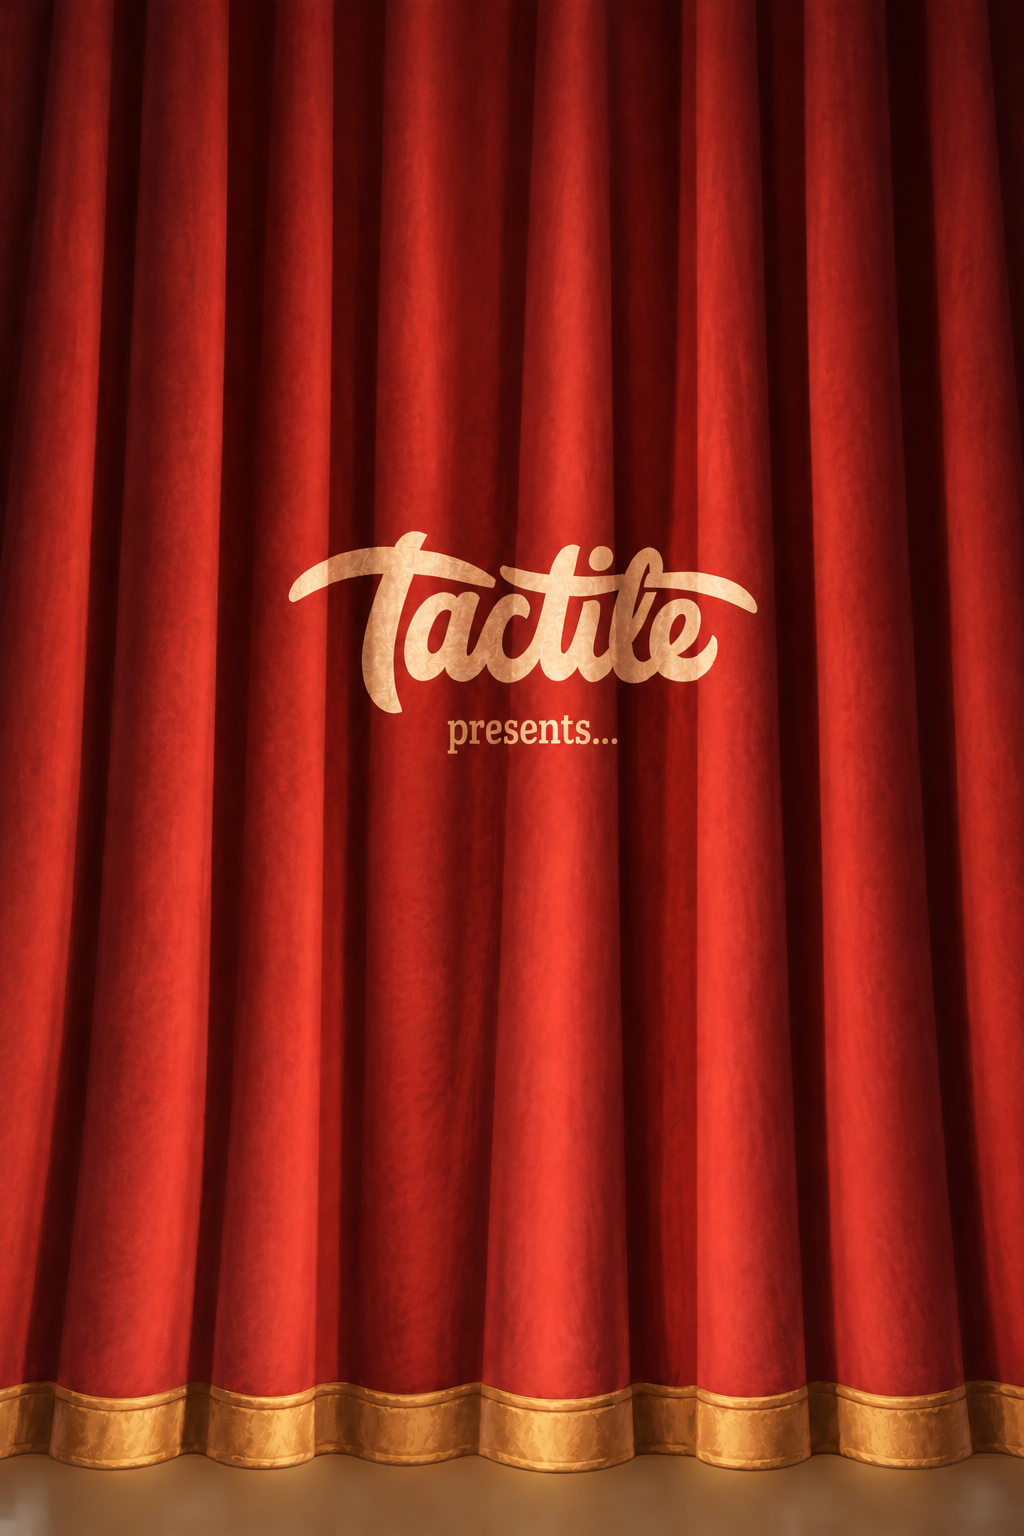
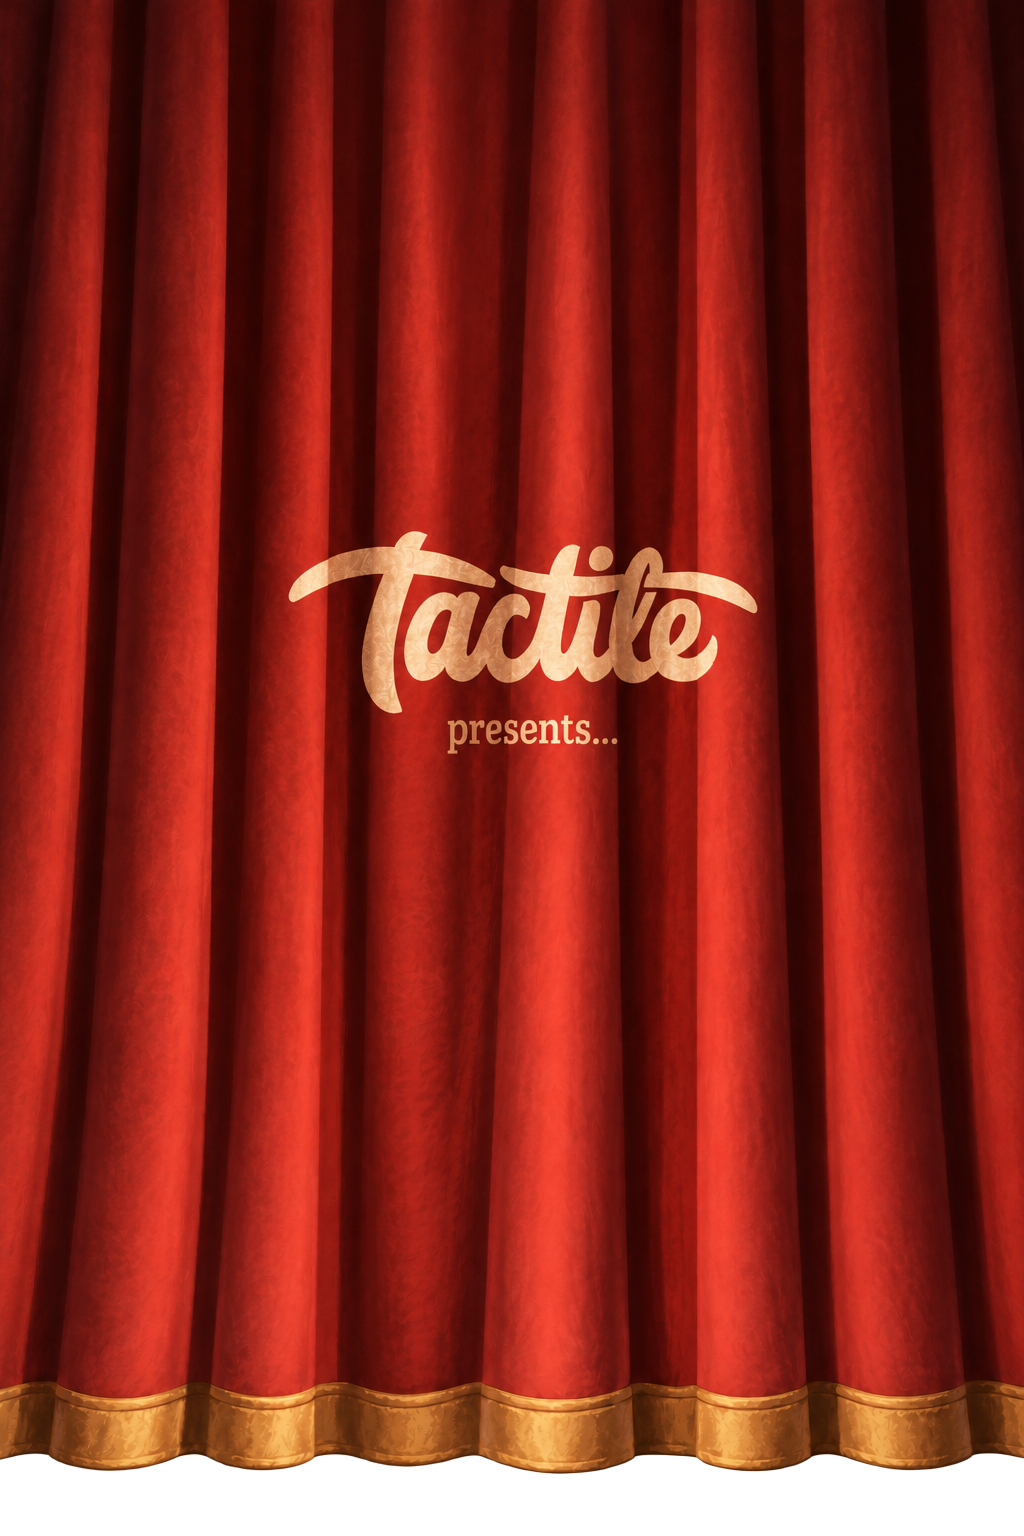
Restore transparency beneath branded curtain hems

Changed region(s): [[0.0, 0.9375, 1.0, 1.0]]

diff --git a/bubble-boobble/ui/cartoon-menu-flow.style.css b/bubble-boobble/ui/cartoon-menu-flow.style.css
@@ -55,4 +55,3 @@
 }
 
 .cartoon-menu .ud-cartoon-menu__cm_curtain_label {font-family:"cartoon/fonts/BreeSerif-Regular";}
-

diff --git a/bubble-boobble/tools/menu-branding/README.md b/bubble-boobble/tools/menu-branding/README.md
@@ -31,3 +31,27 @@ Prompt set:
 Visual verification uses Game Engine view captures at 360×880, 1280×720 and
 2520×1080, plus the curtain's fully lifted pose. Full suites are deferred under the
 project's presentation-only prototype verification policy.
+
+## Transparency repair
+
+Run `node tools/menu-branding/restore-curtain-alpha.cjs` with Sharp on `NODE_PATH`
+to restore and verify alpha after importing artwork. It preserves every RGB byte,
+uses the original curtain's exact alpha for the landscape, and uses the preserved
+`curtain-portrait-alpha-cutout.png` mask for portrait. Generated mask alpha values
+0–8 become transparent, 238–255 become opaque, and intermediate edges are remapped.
+Both exports have fully transparent bottom rows and fully opaque cloth above the hem.
+
+The portrait mask was made with built-in imagegen using this prompt:
+
+> Edit this exact 1024x1536 portrait curtain image ONLY to remove the brown
+> floor/matte below the bottom scalloped gold hem, replacing ALL background below
+> the hem with genuine alpha transparency. Keep the curtain fabric and gold hem
+> fully opaque. Follow the precise gold hem silhouette including scallops and
+> antialiased edges. The bottom row must be fully transparent. Do not crop, resize,
+> move, repaint or alter any red fabric, gold trim, Tactile wordmark or presents…
+> lettering. Preserve every existing cloth detail and the exact canvas size and
+> framing. Output PNG with alpha; no checkerboard drawn into image, no floor, no
+> cast shadow below the hem, no colored matte.
+
+Only the mask's alpha is used; its generated RGB is discarded. Engine half-lift
+captures were inspected at 360×880 and 2520×1080 after the repair.
